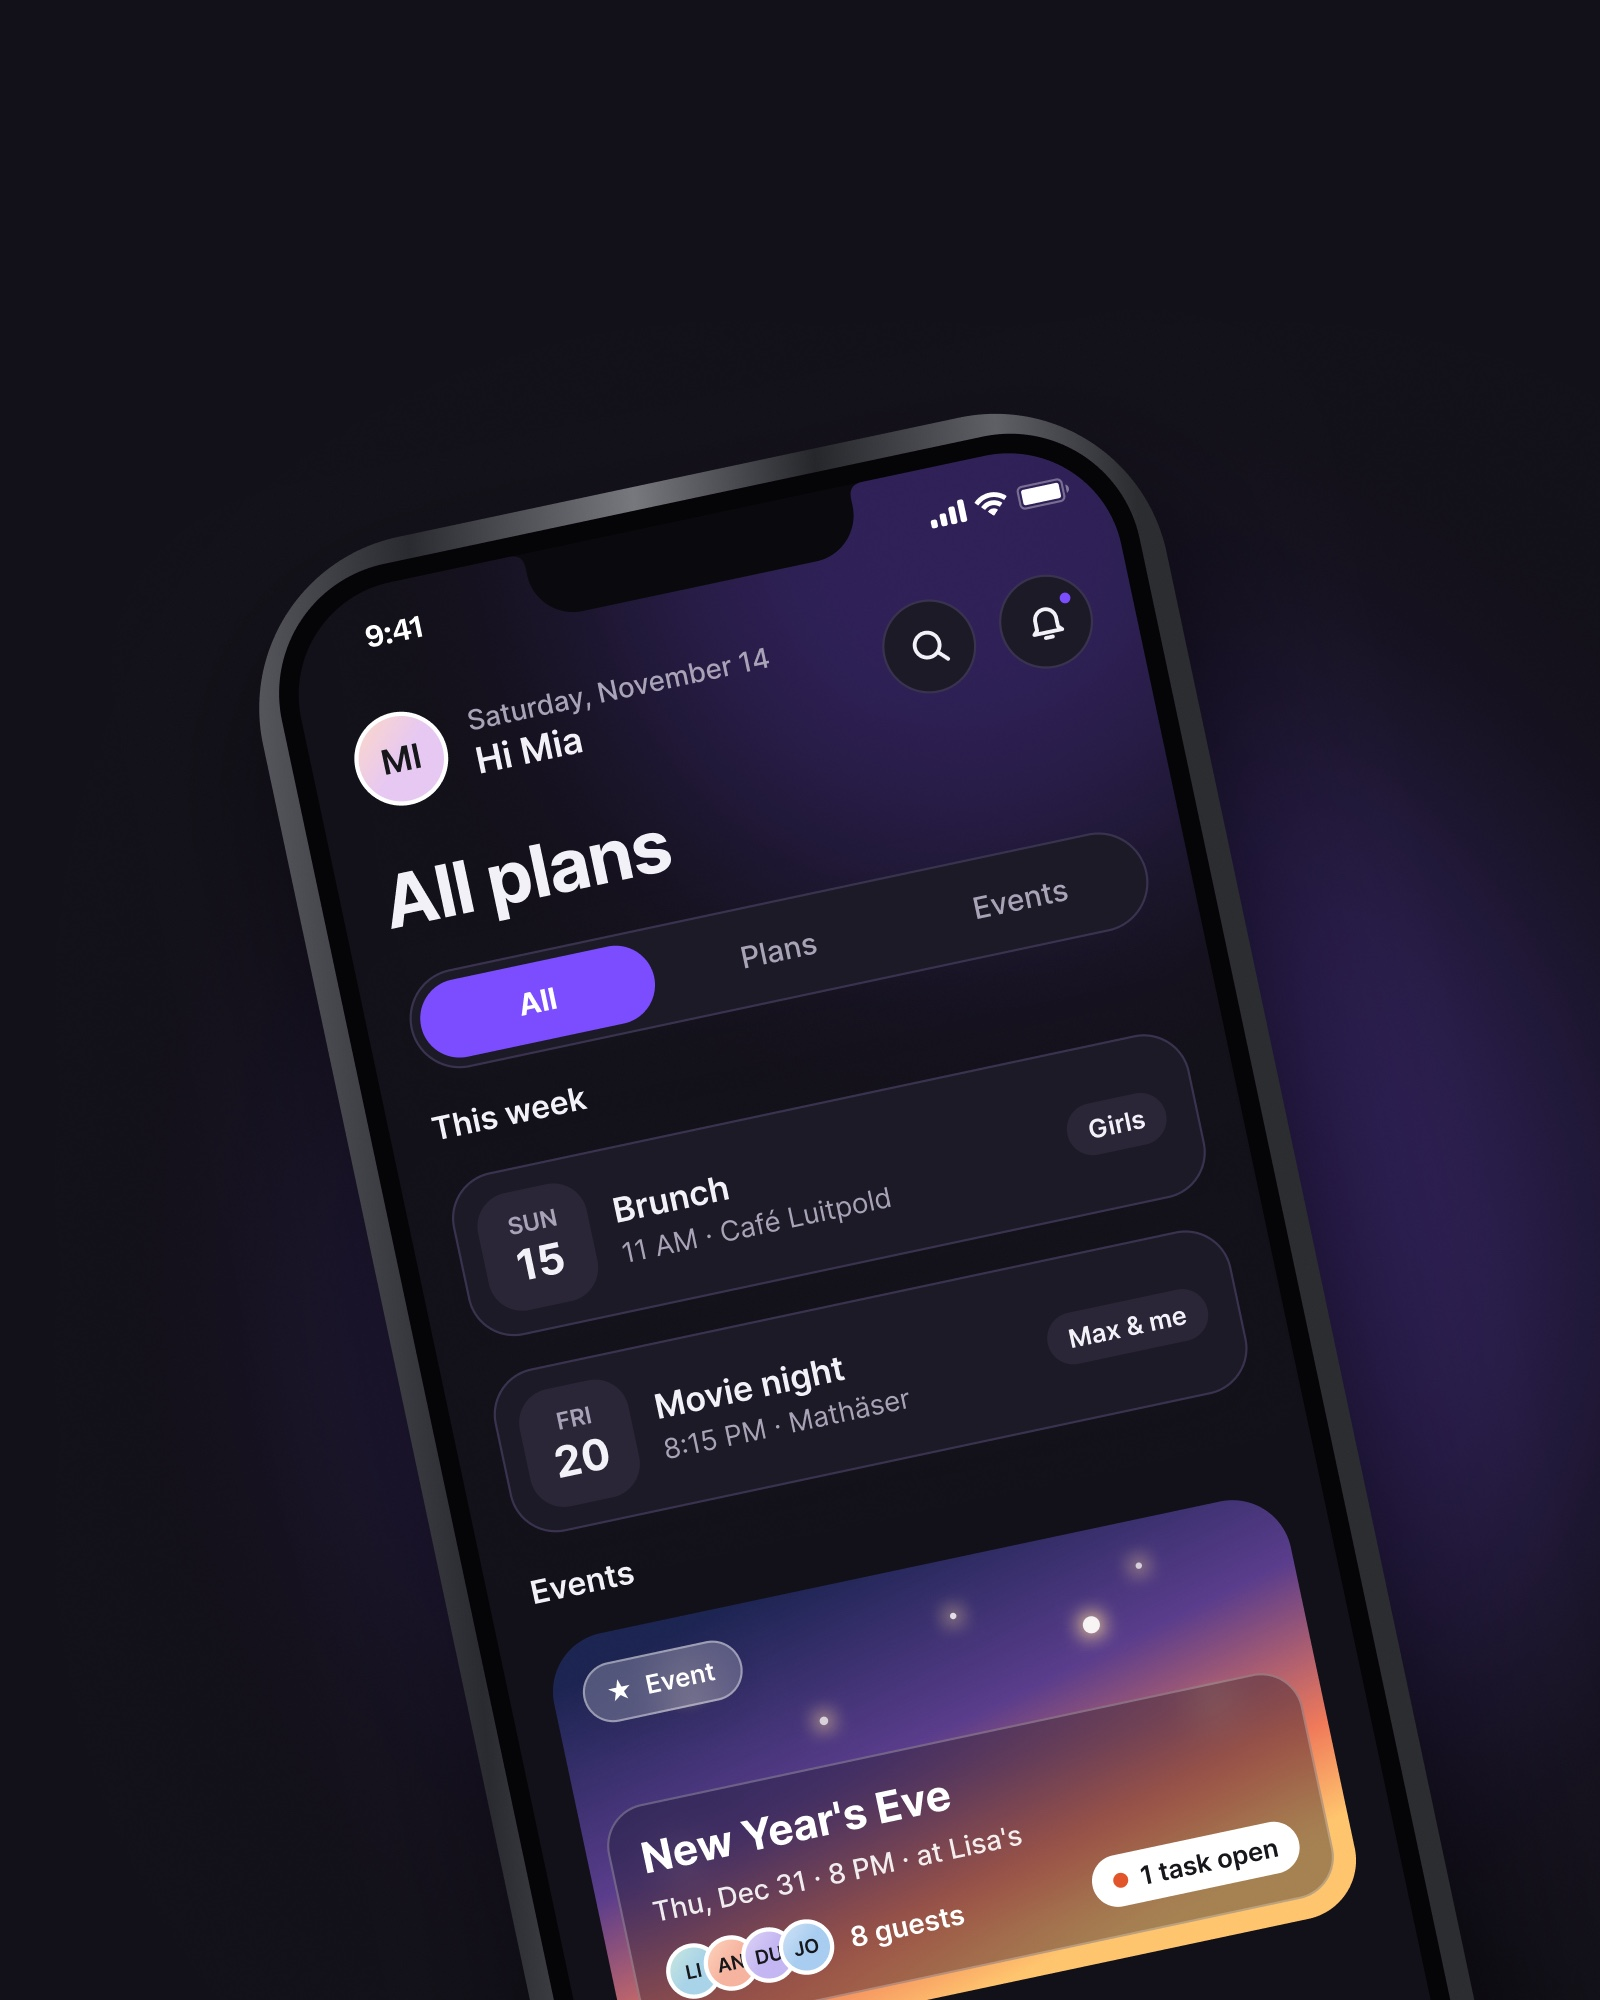
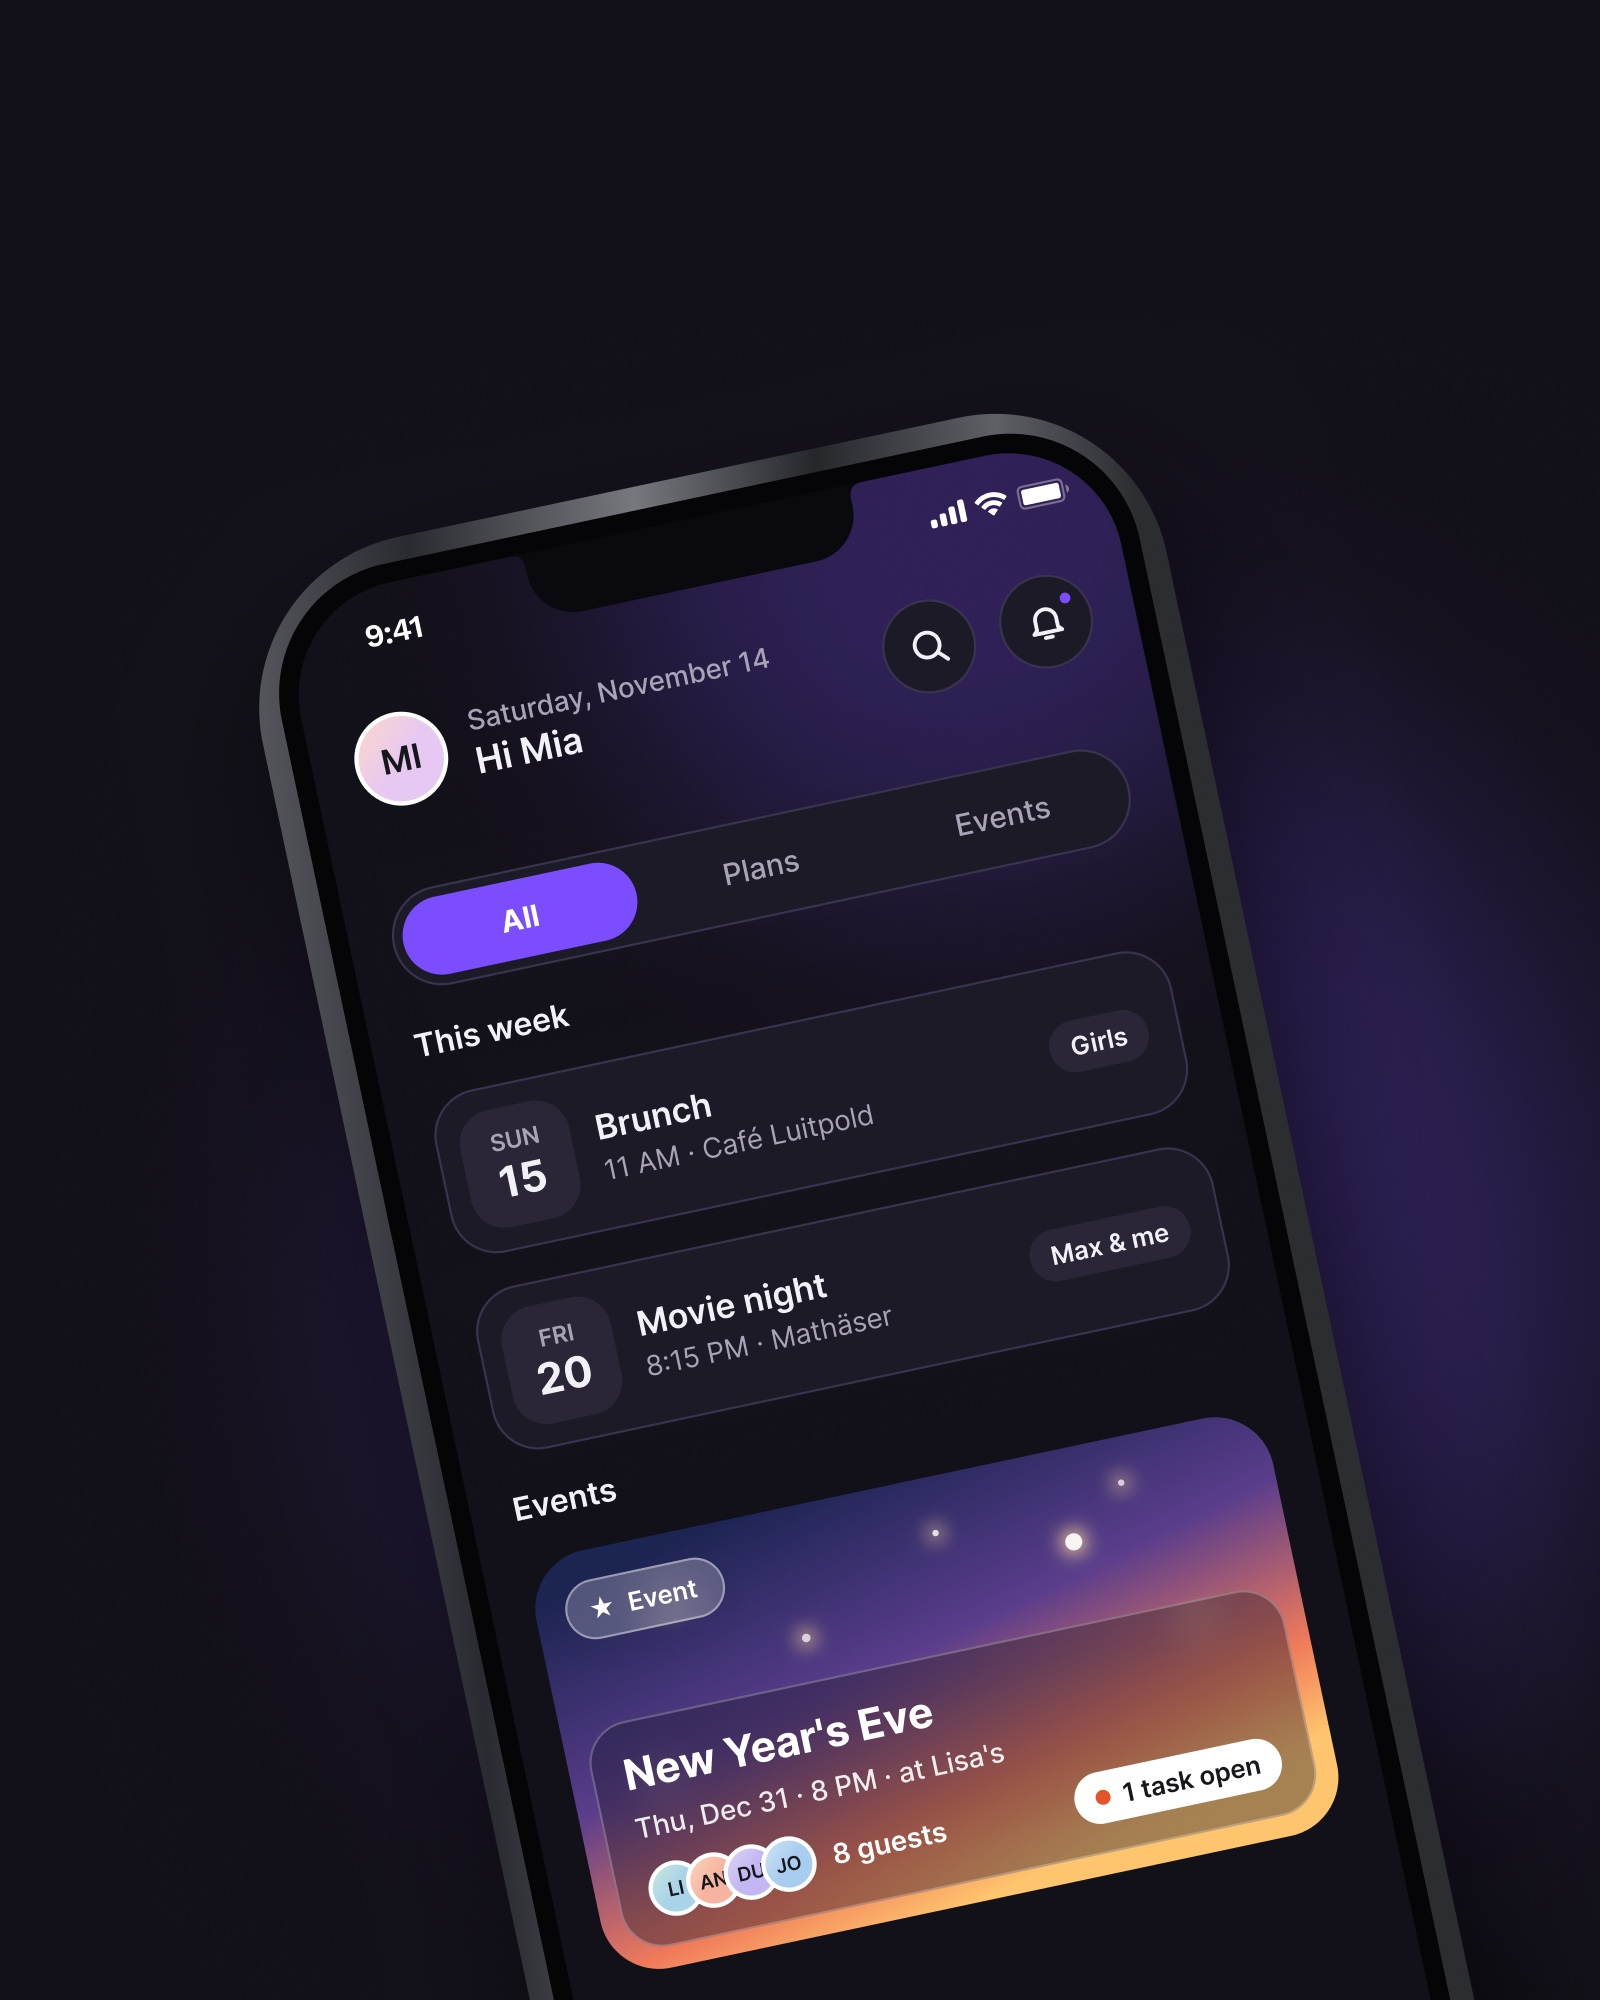
sync.-Titelbild: Überschrift entfernt, nur Tabs All · Plans · Events

diff --git a/projekte.html b/projekte.html
@@ -50,7 +50,7 @@
     <li class="pj-item">
       <article class="pj-card pj-reveal pj-soon" tabindex="0" aria-labelledby="pjSync" aria-describedby="pjSoon">
         <span class="pj-media">
-          <img src="media/projekte/cover-sync.jpg" width="1600" height="2000" decoding="async" alt="sync. auf einem iPhone: die Übersicht „All plans“ mit Brunch, Movie night und New Year’s Eve.">
+          <img src="media/projekte/cover-sync.jpg" width="1600" height="2000" decoding="async" alt="sync. auf einem iPhone: die Übersicht mit den Tabs All, Plans und Events, darunter Brunch, Movie night und New Year’s Eve.">
           <span class="pj-veil" id="pjSoon">
             <span class="pj-veil-n" id="pjSync">sync.</span>
             <span class="pj-veil-t">( in progress )</span>

diff --git a/projekte-en.html b/projekte-en.html
@@ -50,7 +50,7 @@
     <li class="pj-item">
       <article class="pj-card pj-reveal pj-soon" tabindex="0" aria-labelledby="pjSync" aria-describedby="pjSoon">
         <span class="pj-media">
-          <img src="media/projekte/cover-sync.jpg" width="1600" height="2000" decoding="async" alt="sync. on an iPhone: the “All plans” overview with brunch, a movie night and New Year’s Eve.">
+          <img src="media/projekte/cover-sync.jpg" width="1600" height="2000" decoding="async" alt="sync. on an iPhone: the overview with All, Plans and Events tabs, showing brunch, a movie night and New Year’s Eve.">
           <span class="pj-veil" id="pjSoon">
             <span class="pj-veil-n" id="pjSync">sync.</span>
             <span class="pj-veil-t">( in progress )</span>
